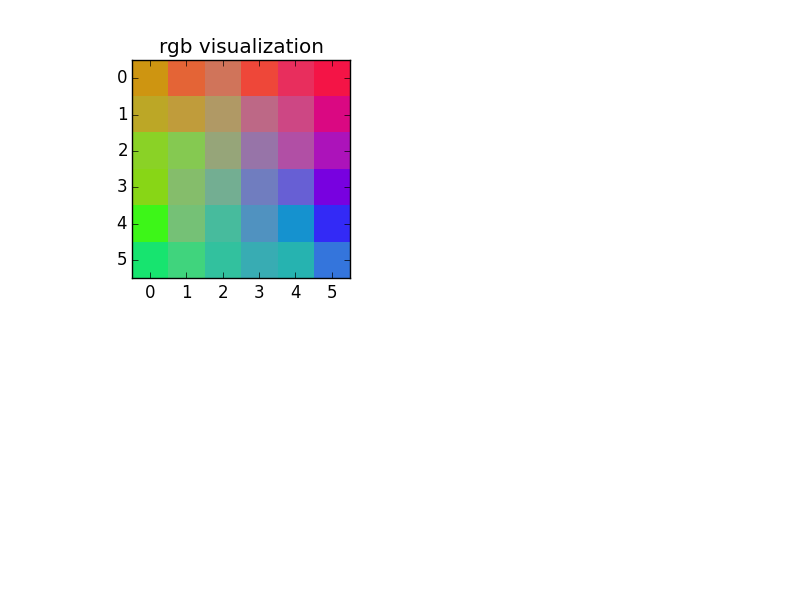
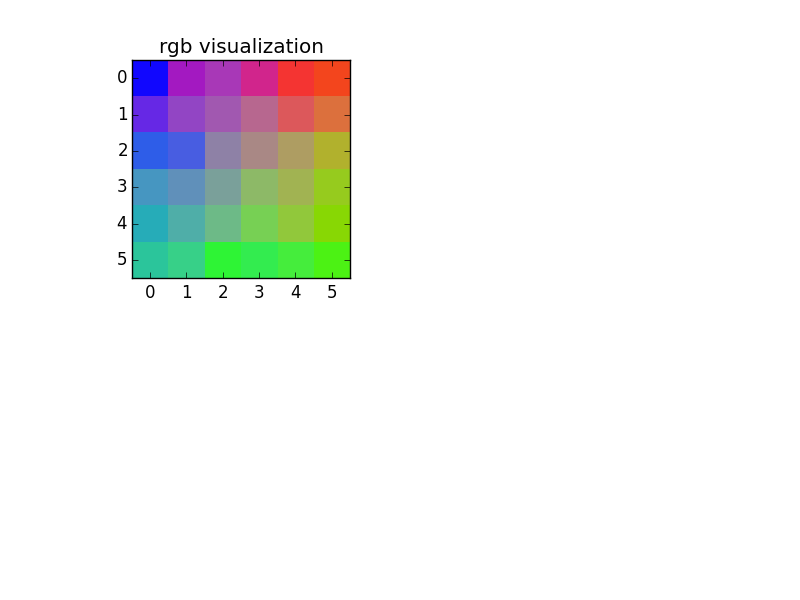
updated som

Changed region(s): [[0.1562, 0.09, 0.4375, 0.48]]

diff --git a/python_implementation/python_optimized.py b/python_implementation/python_optimized.py
@@ -33,7 +33,9 @@ class SOM:
 				g = self.gaussian((w_h, w_w), sigma) * lr
 				it = np.nditer(g, flags=['multi_index'])
 				while not it.finished:
+					# print elem - self.codebook[it.multi_index]
 					self.codebook[it.multi_index] += g[it.multi_index]*(elem - self.codebook[it.multi_index])
+					# print g[it.multi_index]*(elem - self.codebook[it.multi_index])
 					self.codebook[it.multi_index] = self.codebook[it.multi_index] / fast_norm(self.codebook[it.multi_index])
 					it.iternext()
 
@@ -59,10 +61,11 @@ class SOM:
 
 
 rgb = np.load("data/generated_rgb.np")
+# rgb /= 255.0
 
-s = SOM(6, 6, sigma=0.3, lr=0.5)
+s = SOM(6, 6, sigma=0.3, lr=0.3)
 
-s.initialize(rgb)
+s.initialize(rgb / 255)
 
 visualize_rgb(s.w, s.h, s.codebook, "init")
 s.train(rgb, 10)
